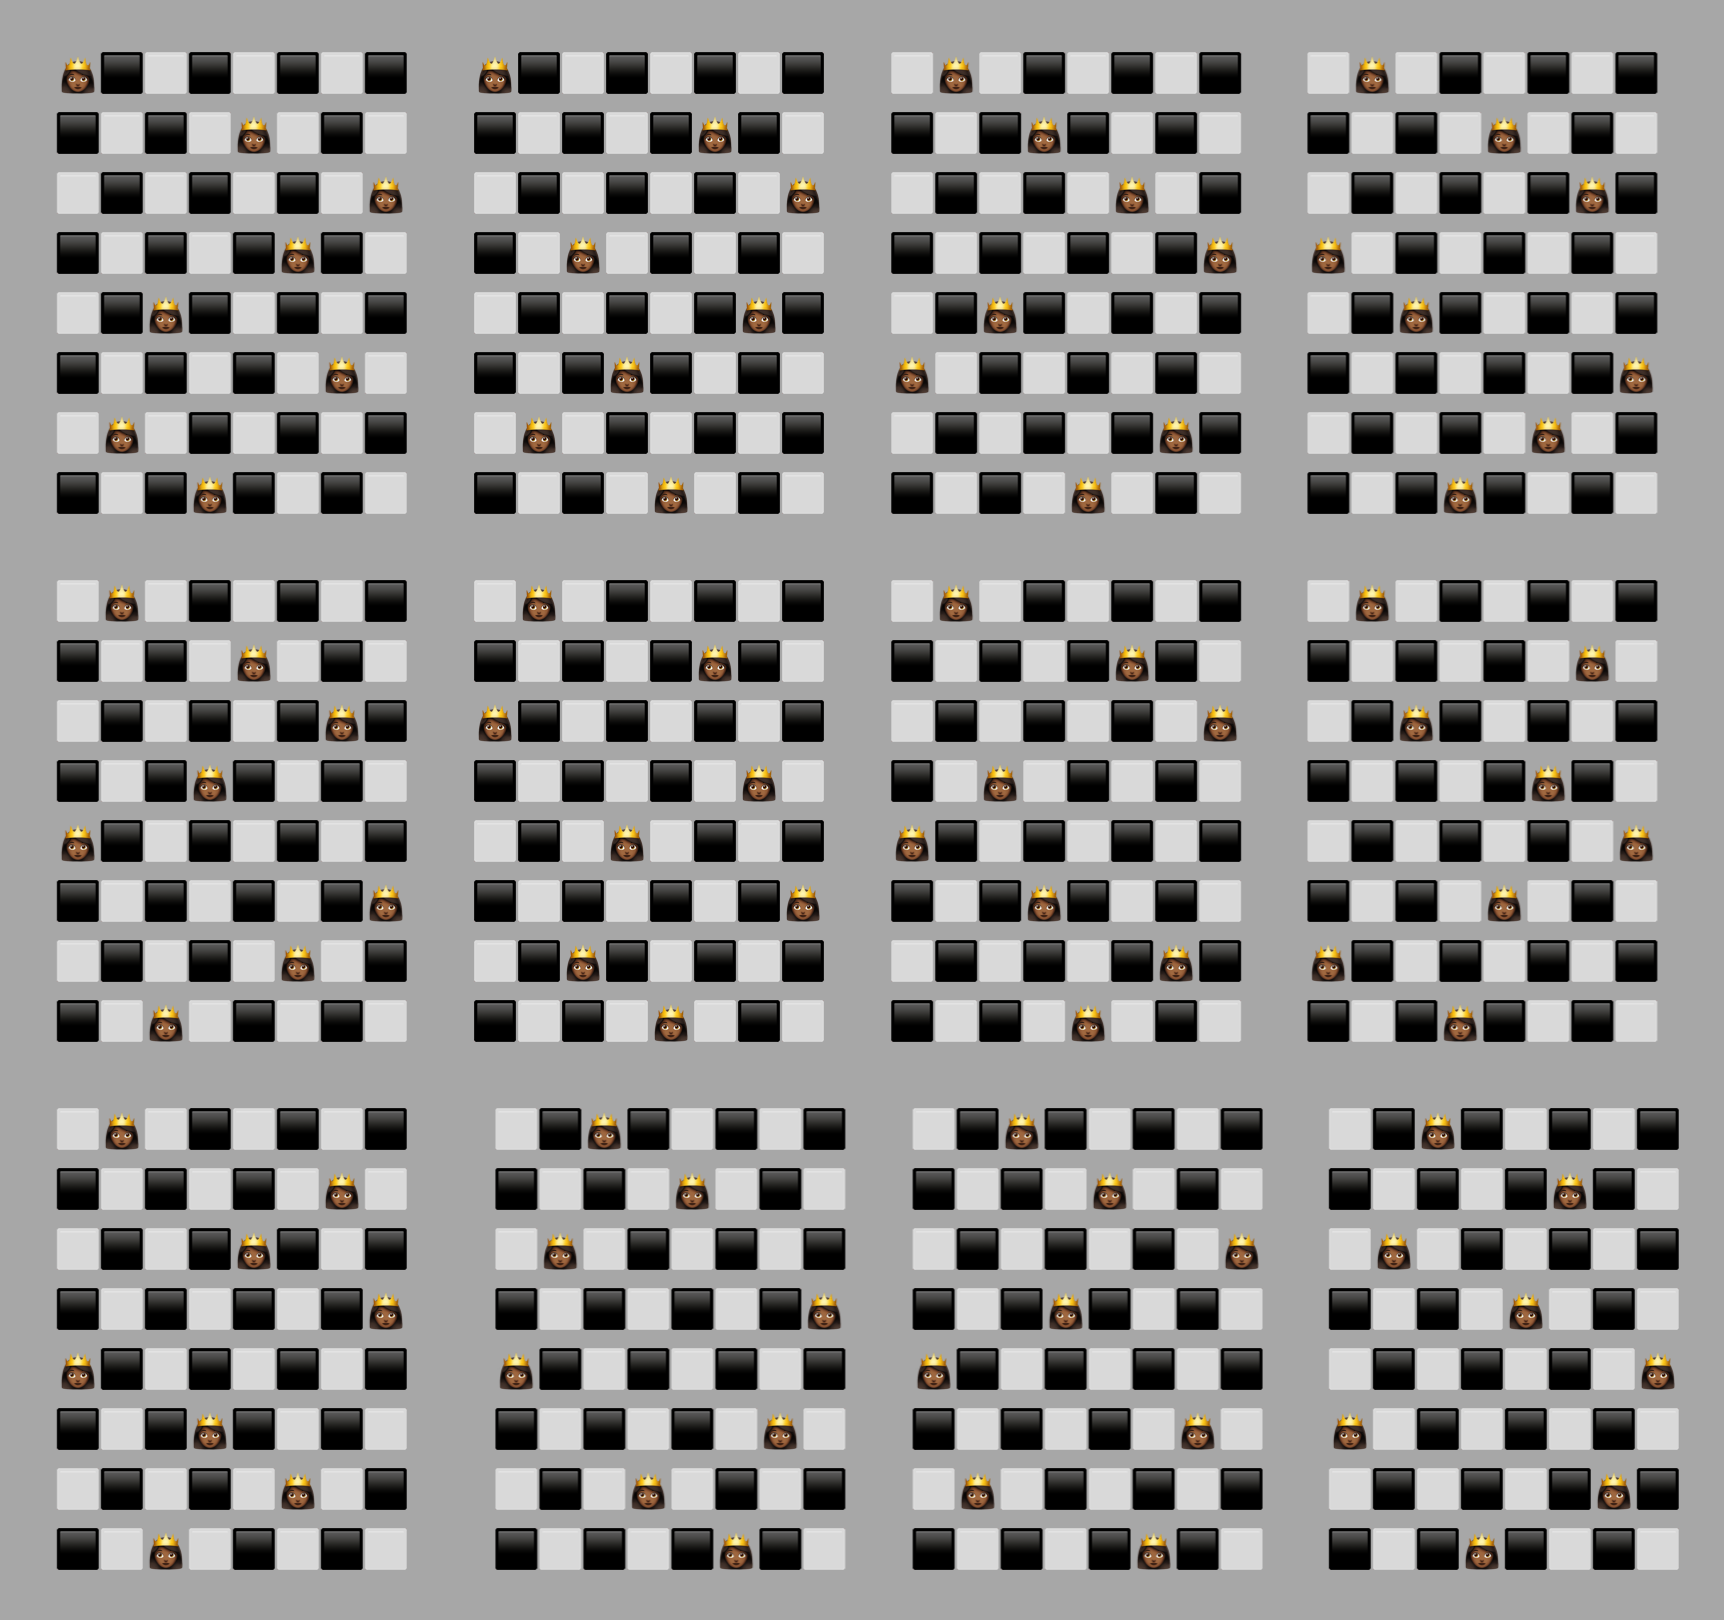
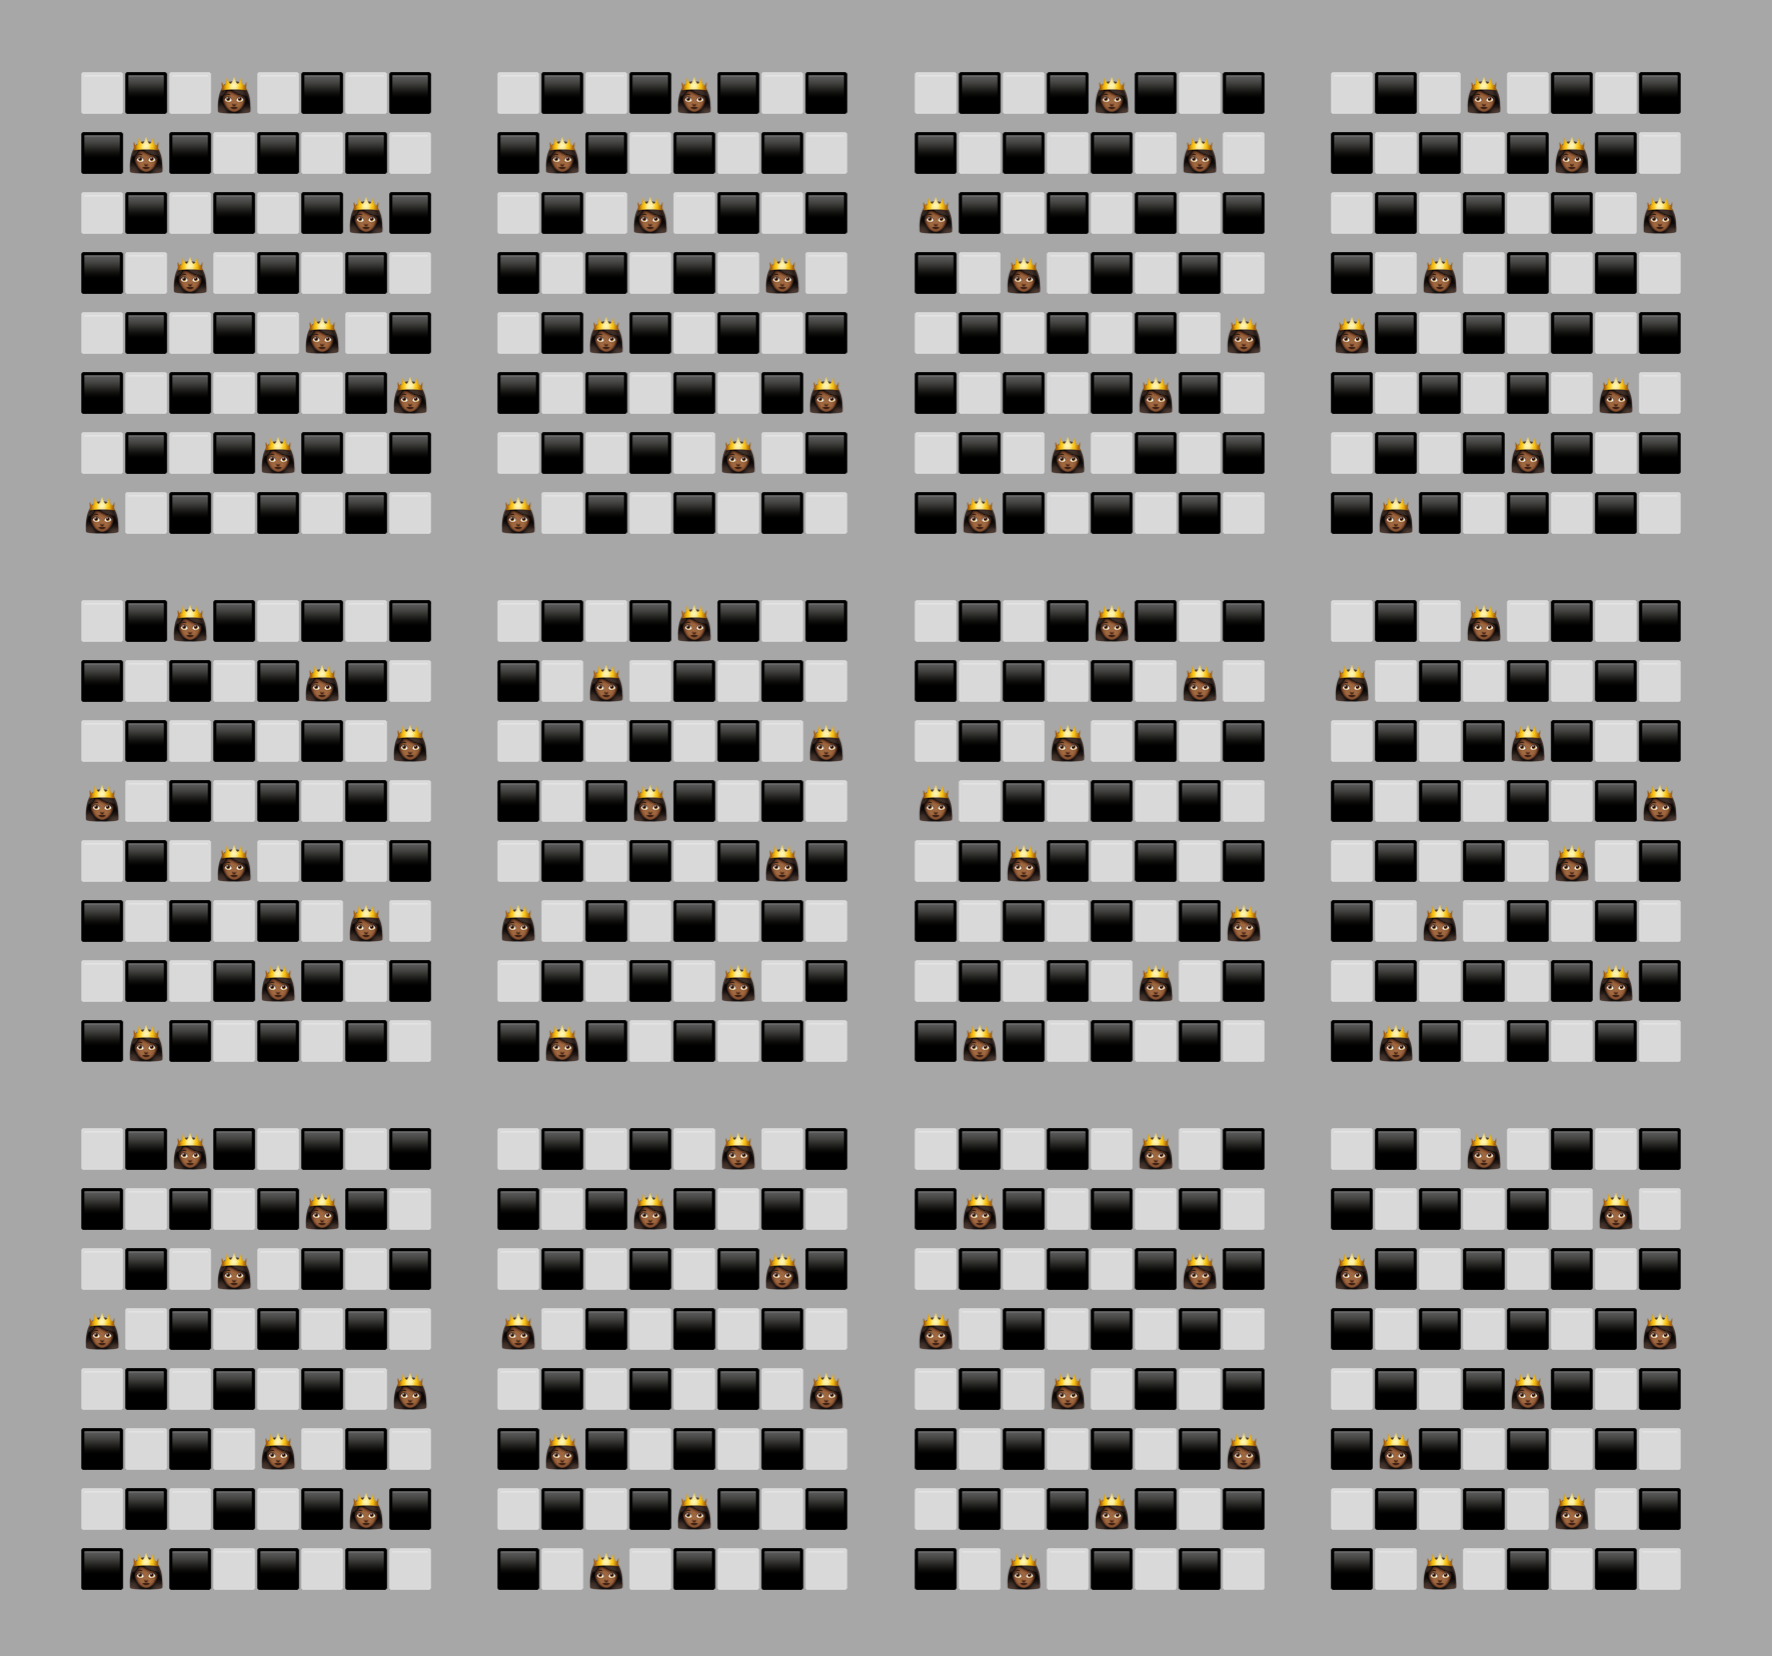
nice diagram 2

diff --git a/_posts/2018-08-03-eight-queens.md b/_posts/2018-08-03-eight-queens.md
@@ -851,8 +851,8 @@ function niceDiagramOf (queens) {
     ["⬛", "⬜", "⬛", "⬜", "⬛", "⬜", "⬛", "⬜"]
   ];
 
-  for (const [i, j] of queens) {
-    board[i][j] = "👸🏾";
+  for (const [row, col] of queens) {
+    board[7 - row][col] = "👸🏾";
   }
 
   return board.map(row => row.join('')).join("\n");
